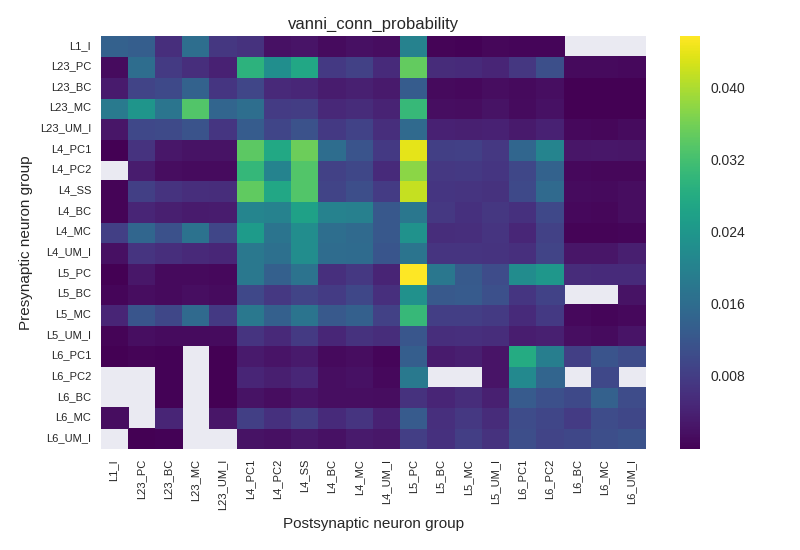
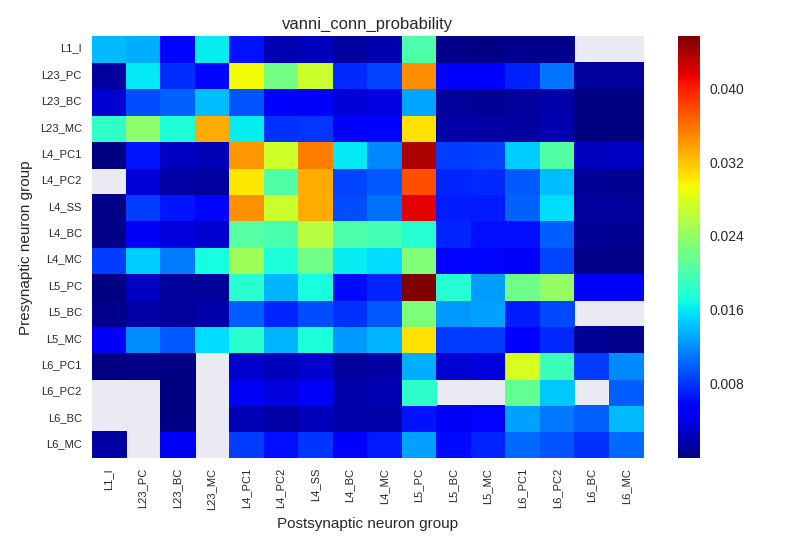
Implemented change_calcium in brian2_obj_namespaces. Fixed division of UM_I between BC and MC in vannilizer.

diff --git a/pandas_playground/pandaplots.py b/pandas_playground/pandaplots.py
@@ -3,45 +3,90 @@ import seaborn as sns
 import numpy as np
 import matplotlib.pyplot as plt
 
-mycmap = 'viridis'
+vanni_local_connectivity_json = 'pathways_anatomy_vanni.json'
+markram_physiology_json = 'pathways_physiology_factsheets_simplified.json'
+plot_directory = 'plots/'
 
-
-data = pd.read_json('pathways_anatomy_vanni.json', orient='index')
-
-# Saving & reading messes with correct order! >.<
+mycmap = 'jet'
 sort_order = ['layer_pre', 'is_inhibitory_pre', 'celltype_pre', 'layer_post', 'is_inhibitory_post', 'celltype_post']
-data = data.sort_values(by=sort_order)
-
-correct_order = data.neurongroup_pre.unique()
-
-# Create 2D data
-plotdata = dict()
-
-plotdata['vanni_mean_synapses'] = data.pivot_table('mean_number_of_synapses_per_connection', index='neurongroup_pre', columns='neurongroup_post', aggfunc = sum)
-plotdata['vanni_conn_probability'] = data.pivot_table('connection_probability', index='neurongroup_pre', columns='neurongroup_post', aggfunc=sum)
-
-plot_these = ['vanni_mean_synapses', 'vanni_conn_probability']
 
 
-# Plot it
-plt.close() # In case something is open
-plotobj = dict()
-sns.set()
+def plot_local_connectivity(vanni_json = vanni_local_connectivity_json):
 
-for p in plot_these:
-	plotdata[p] = plotdata[p].reindex(index=correct_order, columns=correct_order) # Pivoting messes (=alphabetizes) the order
-	plotdata[p].index.name = 'Presynaptic neuron group'
-	plotdata[p].columns.name = 'Postsynaptic neuron group'
-	plotobj[p] = sns.heatmap(plotdata[p], cmap=mycmap)
-	plt.tick_params(axis="both", labelsize=8)
-	plt.setp(plotobj[p].get_xticklabels(), rotation=90)
-	plt.setp(plotobj[p].get_yticklabels(), rotation=0)
-	plt.title(p)
-	plt.tight_layout()
-	plt.savefig('plots/'+p+'.png', dpi=100)
-	plt.close()
+    data = pd.read_json(vanni_json, orient='index')
 
+    # Saving & reading messes with correct order! >.<
+    data = data.sort_values(by=sort_order)
+    correct_order = data.neurongroup_pre.unique()
 
-# Todo:
-# 1) Order neuron groups excitatory->inhibitory, then ab-lly
-# 2) Create/modify class with above functionality (heatmap-method for mean-synapses,conn-probability)
+    # Create 2D data
+    plotdata = dict()
+
+    plotdata['vanni_mean_synapses'] = data.pivot_table('mean_number_of_synapses_per_connection',
+                                                       index='neurongroup_pre', columns='neurongroup_post',
+                                                       aggfunc = sum)
+    plotdata['vanni_conn_probability'] = data.pivot_table('connection_probability',
+                                                          index='neurongroup_pre', columns='neurongroup_post',
+                                                          aggfunc=sum)
+
+    plot_these = ['vanni_mean_synapses', 'vanni_conn_probability']
+
+    # Plot it
+    plt.close() # In case something is open
+    plotobj = dict()
+    sns.set()
+
+    for p in plot_these:
+        # Pivoting messes (=alphabetizes) the order
+        plotdata[p] = plotdata[p].reindex(index=correct_order, columns=correct_order)
+
+        plotdata[p].index.name = 'Presynaptic neuron group'
+        plotdata[p].columns.name = 'Postsynaptic neuron group'
+        plotobj[p] = sns.heatmap(plotdata[p], cmap=mycmap)
+        plt.tick_params(axis="both", labelsize=8)
+        plt.setp(plotobj[p].get_xticklabels(), rotation=90)
+        plt.setp(plotobj[p].get_yticklabels(), rotation=0)
+        plt.title(p)
+        plt.tight_layout()
+        plt.savefig(plot_directory + p + '.png', dpi=100)
+        plt.close()
+
+def plot_mean_epsp(markram_json = markram_physiology_json):
+
+    mdata = pd.read_json(markram_json, orient='index')
+
+    # PREPROCESS data to get correct ordering etc
+    group_names = mdata.index.str.extract('(.*):(.*)', expand=True)
+    group_names.index = mdata.index
+    group_names.columns = ['pregroup', 'postgroup']
+
+    layers = mdata.index.str.extract('(L\w{1,2})_(.*):(L\w{1,2})_(.*)', expand=True)
+    layers.index = mdata.index
+    layers.columns = ['prelayer', 'pretype', 'postlayer', 'posttype']
+
+    mdata = mdata.join(group_names)
+    mdata = mdata.join(layers)
+    sort_order = ['prelayer', 'synapse_type', 'pretype',
+                     'postlayer', 'synapse_type', 'posttype']
+    mdata = mdata.sort_values(by=sort_order)
+    markram_group_order = mdata.pregroup
+
+    epsp_data = mdata.pivot_table('epsp_mean', index='pregroup', columns='postgroup')
+    epsp_data.index.name = 'Presynaptic neuron group'
+    epsp_data.columns.name = 'Postsynaptic neuron group'
+    # TODO For some reason messes up the plot
+    #epsp_data = epsp_data.reindex(index=markram_group_order, columns=markram_group_order)
+
+    sns.set()
+    epsp_plot = sns.heatmap(epsp_data, cmap=mycmap)
+
+    plt.tick_params(axis="both", labelsize=6)
+    plt.setp(epsp_plot.get_xticklabels(), rotation=90)
+    plt.setp(epsp_plot.get_yticklabels(), rotation=0)
+    plt.title('Reference microcircuit')
+    plt.tight_layout()
+    plt.savefig(plot_directory + 'markram_epsp_mean' + '.png', dpi=100)
+    plt.close()
+
+#plot_local_connectivity()
+plot_mean_epsp()

diff --git a/brian2_obj_namespaces.py b/brian2_obj_namespaces.py
@@ -1,6 +1,9 @@
 __author__ = 'V_AD'
 from brian_genn_version  import *
 import sys
+
+calcium_concentration = 2.0  # Change calcium concentration here or with _change_calcium()
+
 class synapse_namespaces(object):
     '''
     This class contains all the variables that are required for the Synapses() object namespaces. There are several reference dictionaries in this class for:
@@ -273,6 +276,13 @@ class synapse_namespaces(object):
 
     }
 
+    _excitatory_groups = ['PC', 'SS']
+    _steep_post_inhibitory_groups = ['MC']
+    _shallow_post_inhibitory_groups = ['BC']
+    _steep_post = _excitatory_groups + _steep_post_inhibitory_groups
+    _shallow_post = _shallow_post_inhibitory_groups
+
+    _K12 = 0
 
 
     def __init__(self,output_synapse):
@@ -292,6 +302,26 @@ class synapse_namespaces(object):
             'ilam_%s_%s' % (output_synapse['pre_group_type'], output_synapse['post_group_type'])]
         getattr(synapse_namespaces,output_synapse['type'])(self,output_synapse)
 
+        # For change_calcium
+        if output_synapse['pre_group_type'] in self._excitatory_groups and output_synapse['post_group_type'] in self._steep_post:
+            self._K12 = 2.79
+        elif output_synapse['pre_group_type'] in self._excitatory_groups and output_synapse['post_group_type'] in self._shallow_post:
+            self._K12 = 1.09
+        else:
+            self._K12 = np.average([2.79, 1.09])
+
+
+    def _change_calcium(self, ca=2.0):
+
+        original_synapse_strength = self.output_namespace['wght0']
+
+        ca0 = 2.0
+        calcium_factor = (pow(ca,4)/(pow(self._K12,4) + pow(ca,4))) / (pow(ca0,4)/(pow(self._K12,4) + pow(ca0,4)))
+
+        final_synapse_strength = original_synapse_strength * calcium_factor
+        self.output_namespace['wght0'] = final_synapse_strength
+
+        return final_synapse_strength
 
     def STDP(self,output_synapse):
         '''
@@ -318,6 +348,12 @@ class synapse_namespaces(object):
                                                                                     'post_group_type'])] * synapse_namespaces.stdp_max_strength_coefficient
         self.output_namespace['wght0'] = synapse_namespaces.cw[
             'cw_%s_%s' % (output_synapse['pre_group_type'], output_synapse['post_group_type'])]
+
+        if calcium_concentration > 0:
+            self._change_calcium(calcium_concentration)
+
+
+
 
 
 

diff --git a/pandas_playground/pathways_anatomy_vannilizer.py b/pandas_playground/pathways_anatomy_vannilizer.py
@@ -10,10 +10,12 @@
 # (**) ?? TODO Write a description of the simplified system
 
 
+from __future__ import division
 import pandas as pd
 import re
 import json
 from math import floor
+
 
 
 file_pathways_anatomy_markram = 'pathways_anatomy_factsheets_simplified.json'
@@ -361,10 +363,12 @@ def _compute_own_cell_N_dict(with_UM_I = False):
         rows_to_remove = pd.DataFrame(own_cell_N[own_cell_N.index.str.contains('UM_I')])
         for row in rows_to_remove.iterrows():
             UM_I_count = row[1]['N']
-            half_of_UM_I = round(UM_I_count / 2, ndigits=0)
             layer = row[0].split('_')[0]
-            own_cell_N[layer + '_MC'] += half_of_UM_I
-            own_cell_N[layer + '_BC'] += half_of_UM_I
+
+            # TODO Slight discrepancy with Vafa's numbers! But I think mine is correct ;)
+            BC_to_BC_plus_MC = own_cell_N[layer + '_BC'] / (own_cell_N[layer + '_BC'] + own_cell_N[layer + '_MC'])
+            own_cell_N[layer + '_BC'] += round( BC_to_BC_plus_MC * UM_I_count, ndigits=0 )
+            own_cell_N[layer + '_MC'] += round( (1-BC_to_BC_plus_MC) * UM_I_count, ndigits=0 )
 
         own_cell_N = own_cell_N[own_cell_N.index.str.contains('UM_I') == False]
 
@@ -490,3 +494,5 @@ def create_csv_config_file(filename=default_csv_output_file, update_json=False):
 
     fi.close()
 
+
+create_csv_config_file()
